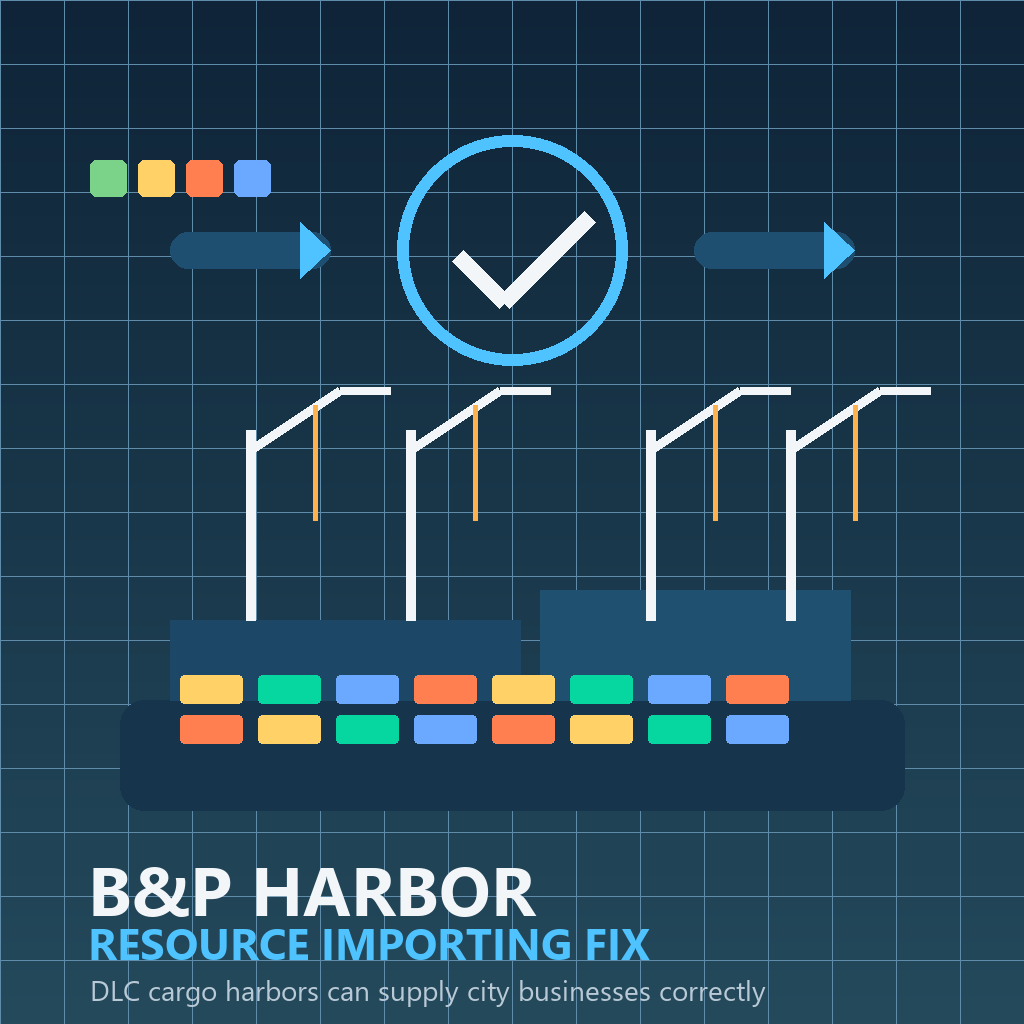
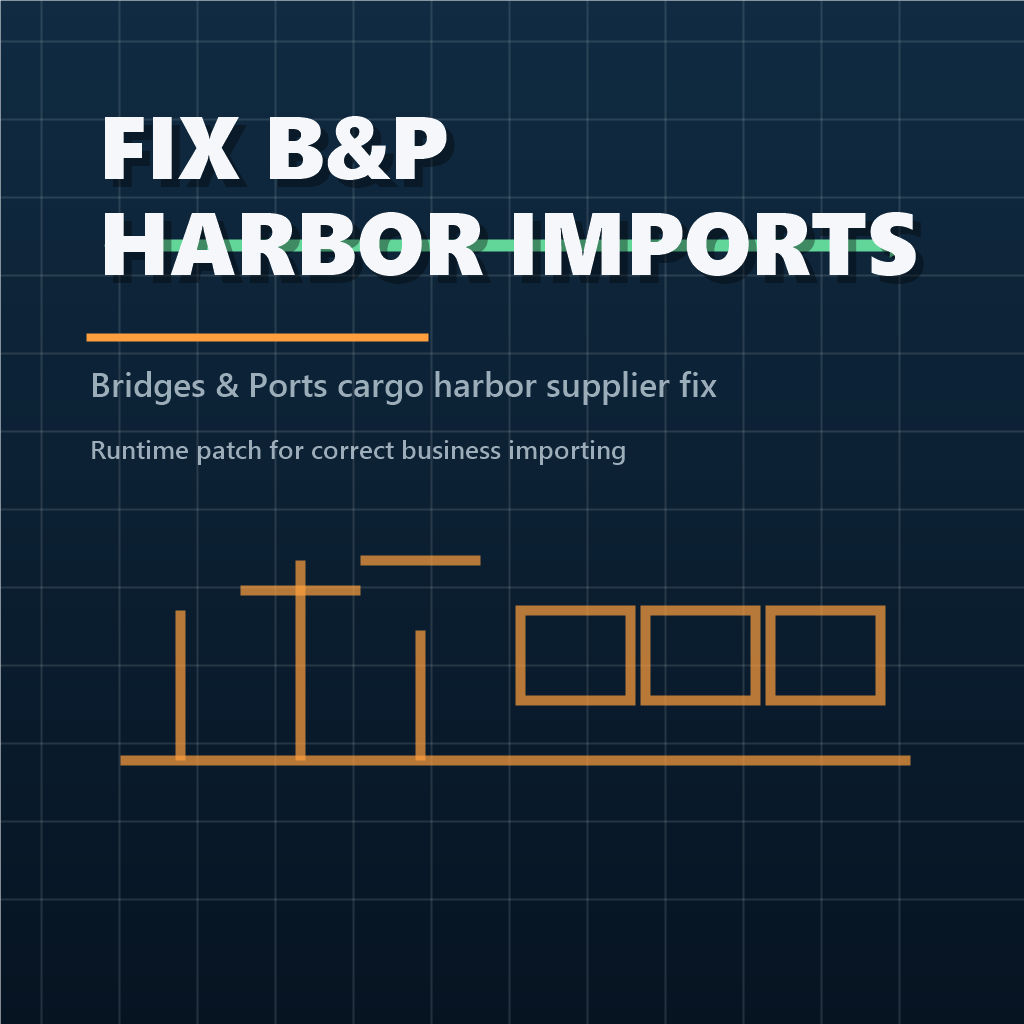
Update mod branding and description

diff --git a/README.md b/README.md
@@ -1,4 +1,4 @@
-# B&P Harbor Resource Importing Fix
+# Fix B&P Harbor Importing
 
 Fixes the bug where businesses in the city do not purchase or import goods from Bridges & Ports DLC cargo harbors.
 
